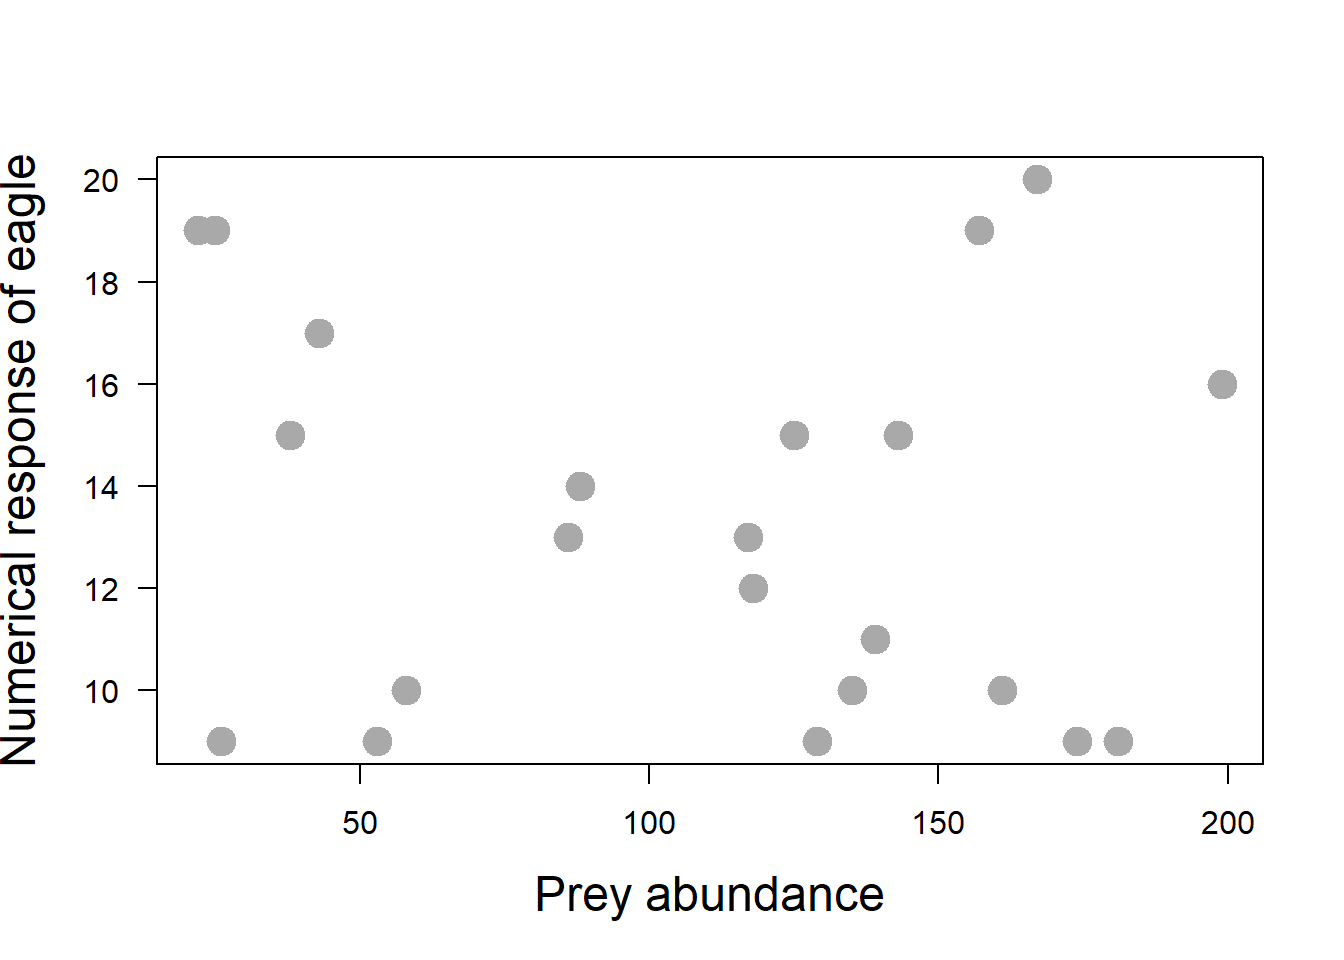
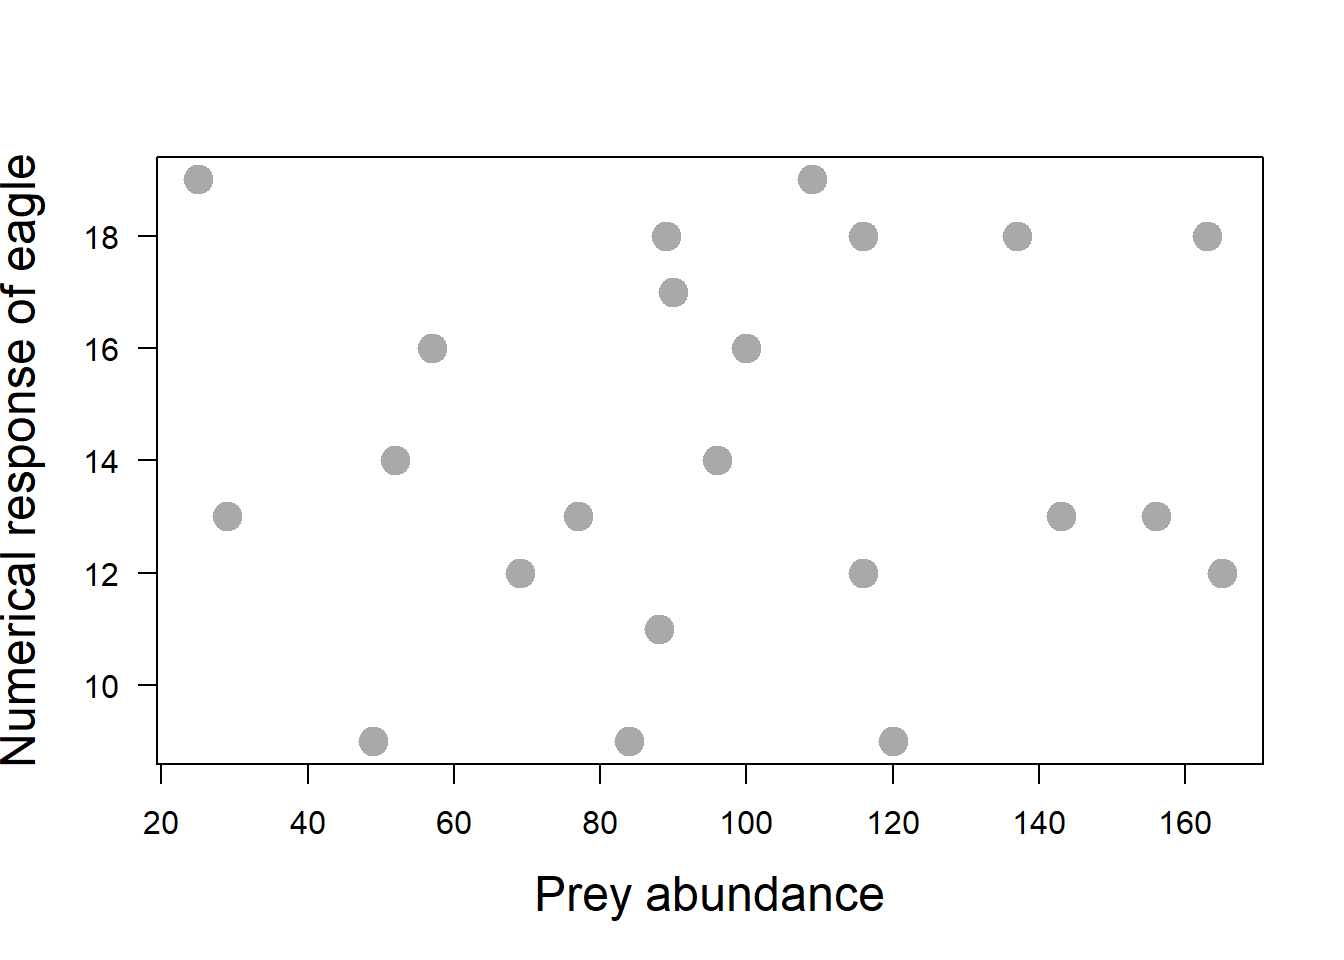
.

diff --git a/docs/index.html b/docs/index.html
@@ -277,7 +277,7 @@ window.Quarto = {
 <p><u>2.</u> A population of beetles has two alleles for color. The dominant allele is $A$ and the recessive allele is $a$. In a sample of 1,000 beetles, 160 display the recessive phenotype. Assuming the population is in Hardy–Weinberg equilibrium, what are the frequencies of the $A$ and $a$ alleles, and what proportion of the population is expected to be heterozygous? (Show your work)</p>
 <p><u>3.</u> Explain why mtDNA is often more useful than nuclear DNA for species identification from small or degraded samples like a single hair found in the woods.</p>
 <p><u>4.</u> Looking at the example of forensic application using microsatellite DNA in Figure 3.2, which deer, a, b, or c, did the antler tissue sample came from?</p>
-<p>🌶️ Many populations of Pacific salmon (Oncorhynchus spp.) from southern California to northern Washington are listed for protection under the US Endangered Species Act 1973 (ESA). Here we use a <a href="https://onlinelibrary.wiley.com/doi/10.1111/eva.13647">published</a> dataset on Chilkat River Chinook salmon (O. tshawytscha) in Southeast Alaska to estimate abundance using close-kin mark-recapture and parentage analysis. This data set includes genetic data on sampled offspring and their assigned parent. First, let’s explore the data. From 682 offspring, 220 were assigned to at least one parent. There are 147 unique parent IDs.</p>
+<p>🌶️ Many populations of Pacific salmon (Oncorhynchus spp.) from southern California to northern Washington are listed for protection under the US Endangered Species Act 1973 (ESA). Here we use a <a href="https://onlinelibrary.wiley.com/doi/10.1111/eva.13647">published</a> dataset on Chilkat River Chinook salmon (O. tshawytscha) in Southeast Alaska to estimate abundance using mark-recapture. This data set includes genetic data on sampled offspring and their assigned parent. First, let’s explore the data. From 682 offspring, 220 were assigned to at least one parent. There are 147 unique parent IDs.</p>
 <div class="cell" data-layout-align="center">
 <div class="sourceCode cell-code" id="cb3"><pre class="sourceCode r code-with-copy"><code class="sourceCode r"><span id="cb3-1"><a href="#cb3-1" aria-hidden="true" tabindex="-1"></a>salmon <span class="ot">&lt;-</span> <span class="fu">read.csv</span>(<span class="st">"https://raw.githubusercontent.com/swrosenbaum/tGMR_simulations/main/Data/ParentPair.csv"</span>)</span>
 <span id="cb3-2"><a href="#cb3-2" aria-hidden="true" tabindex="-1"></a></span>
@@ -413,8 +413,8 @@ window.Quarto = {
 <div style="background-color:beige;">
 <p><strong>🔥Question:</strong></p>
 <ol type="1">
-<li><p>Type in the Lincoln-Peterson estimator and report the estimated abundance of the first example population?</p></li>
-<li><p>Calculate the variance of the estimated abundance in R and report the variance.</p></li>
+<li>Type in the Lincoln-Peterson estimator and report the estimated abundance of the first example population?</li>
+<li>Calculate the variance of the estimated abundance in R and report the variance.</li>
 </ol>
 </div>
 <hr>
@@ -445,17 +445,18 @@ window.Quarto = {
 <div class="sourceCode cell-code" id="cb14"><pre class="sourceCode r code-with-copy"><code class="sourceCode r"><span id="cb14-1"><a href="#cb14-1" aria-hidden="true" tabindex="-1"></a>year <span class="ot">&lt;-</span> <span class="dv">2012</span><span class="sc">:</span><span class="dv">2021</span></span>
 <span id="cb14-2"><a href="#cb14-2" aria-hidden="true" tabindex="-1"></a>abundance <span class="ot">&lt;-</span> <span class="fu">c</span>(<span class="dv">52</span>, <span class="dv">43</span>, <span class="dv">90</span>, <span class="dv">125</span>, <span class="dv">72</span>, <span class="dv">128</span>, <span class="dv">97</span>, <span class="dv">50</span>, <span class="dv">50</span>, <span class="dv">65</span>)</span>
 <span id="cb14-3"><a href="#cb14-3" aria-hidden="true" tabindex="-1"></a></span>
-<span id="cb14-4"><a href="#cb14-4" aria-hidden="true" tabindex="-1"></a>sg_data <span class="ot">&lt;-</span> <span class="fu">data.frame</span>(<span class="fu">matrix</span>(<span class="at">nrow =</span> <span class="fu">length</span>(year), <span class="at">ncol =</span> <span class="dv">3</span>))</span>
-<span id="cb14-5"><a href="#cb14-5" aria-hidden="true" tabindex="-1"></a><span class="fu">colnames</span>(sg_data) <span class="ot">&lt;-</span> <span class="fu">c</span>(<span class="st">"year"</span>, <span class="st">"abundance"</span>, <span class="st">"lambda_y"</span>)</span>
-<span id="cb14-6"><a href="#cb14-6" aria-hidden="true" tabindex="-1"></a></span>
-<span id="cb14-7"><a href="#cb14-7" aria-hidden="true" tabindex="-1"></a>sg_data<span class="sc">$</span>year <span class="ot">&lt;-</span> year</span>
-<span id="cb14-8"><a href="#cb14-8" aria-hidden="true" tabindex="-1"></a>sg_data<span class="sc">$</span>abundance <span class="ot">&lt;-</span> abundance</span>
-<span id="cb14-9"><a href="#cb14-9" aria-hidden="true" tabindex="-1"></a></span>
-<span id="cb14-10"><a href="#cb14-10" aria-hidden="true" tabindex="-1"></a><span class="cf">for</span>(i <span class="cf">in</span> <span class="dv">1</span><span class="sc">:</span><span class="fu">length</span>(sg_data<span class="sc">$</span>year)) {</span>
-<span id="cb14-11"><a href="#cb14-11" aria-hidden="true" tabindex="-1"></a>  sg_data<span class="sc">$</span>lambda_y[i] <span class="ot">&lt;-</span> sg_data<span class="sc">$</span>abundance[i <span class="sc">+</span> <span class="dv">1</span>] <span class="sc">/</span> sg_data<span class="sc">$</span>abundance[i]</span>
-<span id="cb14-12"><a href="#cb14-12" aria-hidden="true" tabindex="-1"></a>}</span>
-<span id="cb14-13"><a href="#cb14-13" aria-hidden="true" tabindex="-1"></a></span>
-<span id="cb14-14"><a href="#cb14-14" aria-hidden="true" tabindex="-1"></a><span class="fu">print</span>(sg_data)</span></code><button title="Copy to Clipboard" class="code-copy-button"><i class="bi"></i></button></pre></div>
+<span id="cb14-4"><a href="#cb14-4" aria-hidden="true" tabindex="-1"></a>sg_data <span class="ot">&lt;-</span> <span class="fu">data.frame</span>(<span class="fu">matrix</span>(<span class="at">nrow =</span> <span class="fu">length</span>(year),</span>
+<span id="cb14-5"><a href="#cb14-5" aria-hidden="true" tabindex="-1"></a>                             <span class="at">ncol =</span> <span class="dv">3</span>))</span>
+<span id="cb14-6"><a href="#cb14-6" aria-hidden="true" tabindex="-1"></a><span class="fu">colnames</span>(sg_data) <span class="ot">&lt;-</span> <span class="fu">c</span>(<span class="st">"year"</span>, <span class="st">"abundance"</span>, <span class="st">"lambda_y"</span>)</span>
+<span id="cb14-7"><a href="#cb14-7" aria-hidden="true" tabindex="-1"></a></span>
+<span id="cb14-8"><a href="#cb14-8" aria-hidden="true" tabindex="-1"></a>sg_data<span class="sc">$</span>year <span class="ot">&lt;-</span> year</span>
+<span id="cb14-9"><a href="#cb14-9" aria-hidden="true" tabindex="-1"></a>sg_data<span class="sc">$</span>abundance <span class="ot">&lt;-</span> abundance</span>
+<span id="cb14-10"><a href="#cb14-10" aria-hidden="true" tabindex="-1"></a></span>
+<span id="cb14-11"><a href="#cb14-11" aria-hidden="true" tabindex="-1"></a><span class="cf">for</span>(i <span class="cf">in</span> <span class="dv">1</span><span class="sc">:</span><span class="fu">length</span>(sg_data<span class="sc">$</span>year)) {</span>
+<span id="cb14-12"><a href="#cb14-12" aria-hidden="true" tabindex="-1"></a>  sg_data<span class="sc">$</span>lambda_y[i] <span class="ot">&lt;-</span> sg_data<span class="sc">$</span>abundance[i <span class="sc">+</span> <span class="dv">1</span>] <span class="sc">/</span> sg_data<span class="sc">$</span>abundance[i]</span>
+<span id="cb14-13"><a href="#cb14-13" aria-hidden="true" tabindex="-1"></a>}</span>
+<span id="cb14-14"><a href="#cb14-14" aria-hidden="true" tabindex="-1"></a></span>
+<span id="cb14-15"><a href="#cb14-15" aria-hidden="true" tabindex="-1"></a><span class="fu">print</span>(sg_data)</span></code><button title="Copy to Clipboard" class="code-copy-button"><i class="bi"></i></button></pre></div>
 <div class="cell-output cell-output-stdout">
 <pre><code>   year abundance  lambda_y
 1  2012        52 0.8269231
@@ -824,7 +825,7 @@ F-statistic: 62.09 on 1 and 18 DF,  p-value: 3.039e-07</code></pre>
 <span id="cb34-2"><a href="#cb34-2" aria-hidden="true" tabindex="-1"></a>p <span class="ot">&lt;-</span>  <span class="fl">0.5</span>                                             <span class="co"># allele frequency</span></span>
 <span id="cb34-3"><a href="#cb34-3" aria-hidden="true" tabindex="-1"></a><span class="fu">rbinom</span>(<span class="dv">1</span>, <span class="at">size =</span> <span class="dv">2</span> <span class="sc">*</span> n[<span class="dv">1</span>], <span class="at">prob =</span> p) <span class="sc">/</span> (<span class="dv">2</span> <span class="sc">*</span> n[<span class="dv">1</span>])     <span class="co"># allele frequency in the next generation </span></span></code><button title="Copy to Clipboard" class="code-copy-button"><i class="bi"></i></button></pre></div>
 <div class="cell-output cell-output-stdout">
-<pre><code>[1] 0.4333333</code></pre>
+<pre><code>[1] 0.5666667</code></pre>
 </div>
 <div class="sourceCode cell-code" id="cb36"><pre class="sourceCode r code-with-copy"><code class="sourceCode r"><span id="cb36-1"><a href="#cb36-1" aria-hidden="true" tabindex="-1"></a>t <span class="ot">&lt;-</span> <span class="dv">1000</span>                                             <span class="co"># repeat sampling 1000 times</span></span>
 <span id="cb36-2"><a href="#cb36-2" aria-hidden="true" tabindex="-1"></a>freq <span class="ot">&lt;-</span> <span class="fu">list</span>()</span>